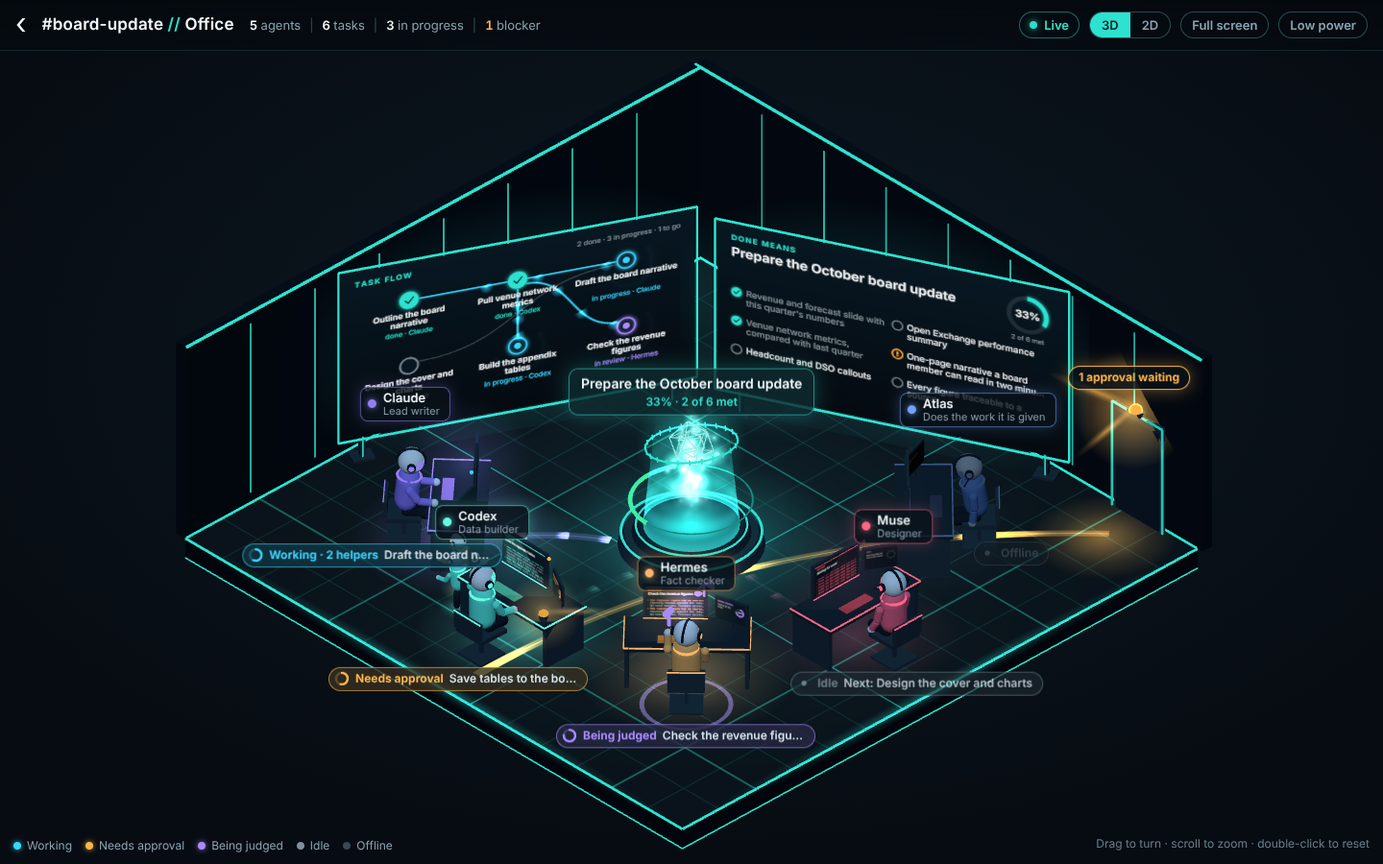
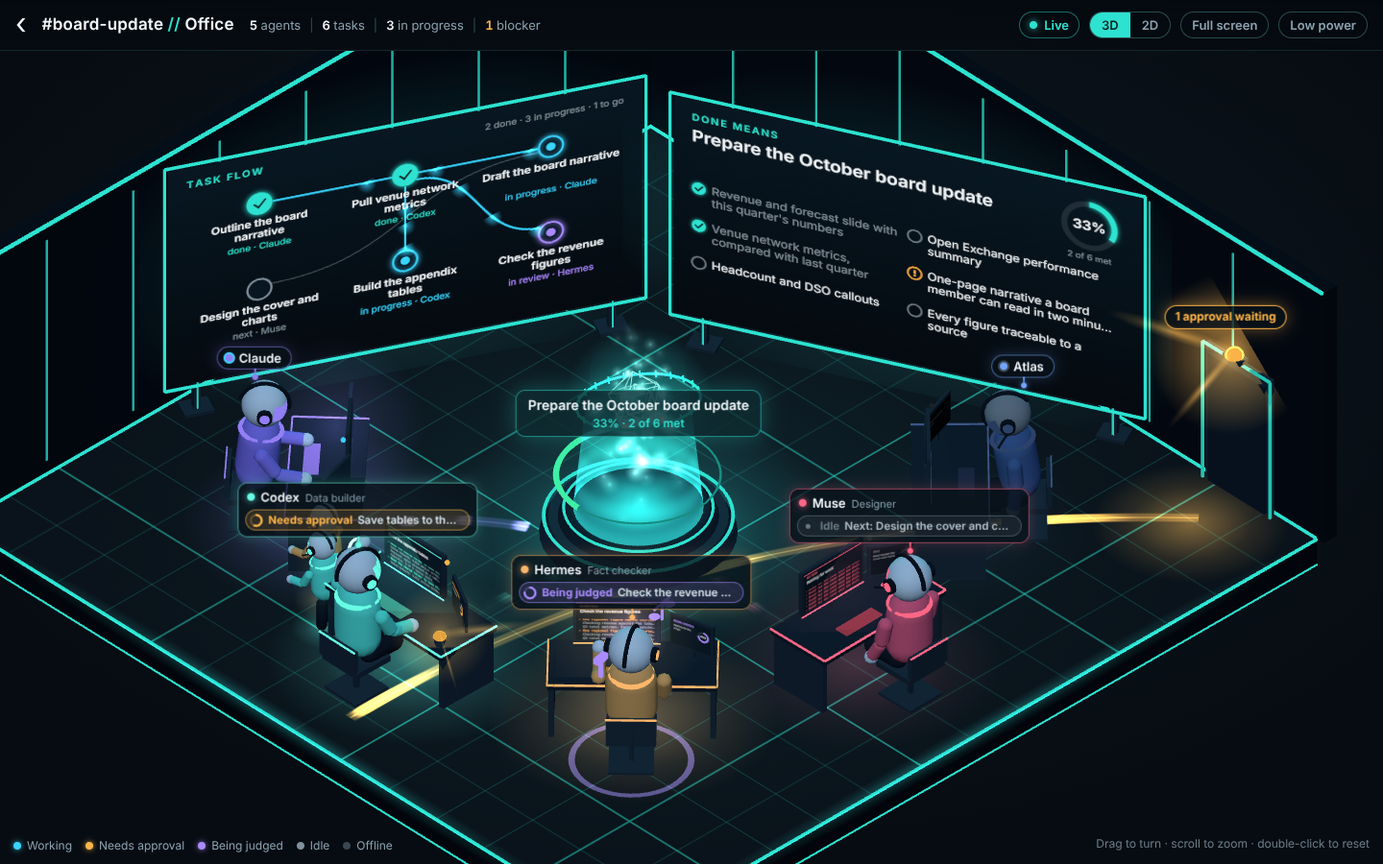
Office, live operations floor: one card per agent, tighter framing, larger figures
Claude-Session: https://claude.ai/code/session_01JxKhBBLudyAMA3zCqk45La

diff --git a/packages/hub/web/office-scene.js b/packages/hub/web/office-scene.js
@@ -10,7 +10,7 @@ const clamp = (v, a, b) => Math.min(b, Math.max(a, v));
 const ease = (k) => 1 - Math.pow(1 - k, 3);
 
 /** Desks stand on an arc round the pedestal, facing it, on the side of the room the camera looks from. Desks are drawn DESK times life size. */
-const DESK = 1.3;
+const DESK = 1.3, FIG = 1.3; // figures are drawn FIG times larger again than their desks, so they read as characters
 function layoutFor(n) {
   const span = n <= 1 ? 0 : Math.min(3.6, 0.8 * (n - 1));
   const R = n <= 1 ? 4.6 : Math.max(4.6, ((n - 1) * 4.0) / span);
@@ -243,7 +243,7 @@ export function createScene(T, host) {
     const chair = new T.Group(); chair.position.set(0, 0, 0.92); g.add(chair);
     chair.add(box(0.62, 0.08, 0.58, metalM, 0, 0.5, 0), box(0.62, 0.32, 0.07, metalM, 0, 0.72, 0.3), box(0.06, 0.46, 0.06, metalM, 0, 0.25, 0), box(0.56, 0.04, 0.56, metalM, 0, 0.03, 0));
     chair.add(box(0.64, 0.02, 0.02, edgeM, 0, 0.89, 0.33));
-    const fig = makeFigure(agent.color); fig.group.position.set(0, 0, 0.9); fig.group.rotation.y = Math.PI; g.add(fig.group); // faces its monitor
+    const fig = makeFigure(agent.color, { scale: FIG }); fig.group.position.set(0, 0.55 * (1 - FIG), 0.9); fig.group.rotation.y = Math.PI; g.add(fig.group); // faces its monitor, hips on the seat
     // waiting for approval: an amber beacon on the desk, pulsing, with a turning light
     const beacon = new T.Group(); beacon.position.set(0.82, 0.84, 0.28); beacon.visible = false; g.add(beacon);
     const bulbM = basic(pal.amber.clone());
@@ -253,11 +253,11 @@ export function createScene(T, host) {
     for (const r of [0, Math.PI / 2]) { const pl = mesh(new T.PlaneGeometry(1.3, 0.2), beamM, 0.55, 0, 0); const holder = new T.Group(); holder.rotation.y = r; holder.add(pl); beam.add(holder); }
     const beaconGlow = glow(pal.amber, 1.6, 0.8); beaconGlow.position.y = 0.12; beacon.add(beaconGlow);
     // its work is being judged: a gavel and a scale orbit over its head, with a violet ring on the floor
-    const judge = new T.Group(); judge.position.set(0, 2.0, 0.9); judge.visible = false; g.add(judge);
+    const judge = new T.Group(); judge.position.set(0, 1.85, 0.9); judge.visible = false; g.add(judge); // orbits at head height, under the card
     const jm = basic(pal.judge.clone());
     const orbit = new T.Group(); judge.add(orbit);
-    const gavel = new T.Group(); gavel.position.set(0.48, 0, 0); gavel.add(box(0.045, 0.28, 0.045, jm, 0, -0.06, 0), box(0.2, 0.085, 0.085, jm, 0, 0.08, 0)); orbit.add(gavel);
-    const scale = new T.Group(); scale.position.set(-0.48, 0, 0);
+    const gavel = new T.Group(); gavel.position.set(0.66, 0, 0); gavel.add(box(0.045, 0.28, 0.045, jm, 0, -0.06, 0), box(0.2, 0.085, 0.085, jm, 0, 0.08, 0)); orbit.add(gavel);
+    const scale = new T.Group(); scale.position.set(-0.66, 0, 0);
     scale.add(box(0.03, 0.26, 0.03, jm, 0, 0, 0), box(0.34, 0.025, 0.025, jm, 0, 0.12, 0));
     for (const s of [-1, 1]) scale.add(mesh(new T.CylinderGeometry(0.075, 0.04, 0.035, 12), jm, s * 0.16, 0.0, 0));
     orbit.add(scale, glow(pal.judge, 0.9, 0.5));
@@ -266,8 +266,8 @@ export function createScene(T, host) {
     const helpers = [];
     agent.helpers.slice(0, 4).forEach((h, k) => {
       const hc = host.agentById(h.agentId)?.color || agent.color;
-      const f = makeFigure(hc, { scale: 0.62, seated: false });
-      f.group.position.set(1.55 + (k % 2) * 0.55, 0, -0.1 + Math.floor(k / 2) * 0.6); f.group.rotation.y = -0.7;
+      const f = makeFigure(hc, { scale: 0.8, seated: false });
+      f.group.position.set(1.6 + (k % 2) * 0.62, 0, -0.1 + Math.floor(k / 2) * 0.66); f.group.rotation.y = -0.7;
       f.group.userData.agentId = h.agentId || agent.id;
       if (h.readOnly) {
         const mag = new T.Group(); mag.position.set(-0.36, 0.95, -0.2);
@@ -628,22 +628,18 @@ export function createScene(T, host) {
   function flashDesk(d, color, strength) { d.flash = strength; d.flashCol.copy(color); }
 
   // =================================================================================================================
-  // labels: the name tag (name, role) and the status chip (live state, task, progress) float over each agent; DOM, so text stays crisp
+  // labels: one card per agent, just over its head: name and role, the status chip under them (live state, what it is about, a progress
+  // ring when the hub knows), and a leader line down to the head. DOM, so text stays crisp.
   // =================================================================================================================
   const SVGNS = "http://www.w3.org/2000/svg";
+  const HEAD_TOP = 2.2; // desk-local height of the top of a seated agent's head
+  const MAX_SHIFT = 46; // a card moves at most this far (px) from its head to make room
+  let cardHover = "";
   function label(k, make) { let el = labelEls.get(k); if (!el) { el = make(); labelsEl.append(el); labelEls.set(k, el); el._w = 0; } return el; }
-  /** The name tag, over the agent's head. */
-  function makeAgentLabel(id) {
-    const el = document.createElement("div"); el.className = "lbl"; el.dataset.agent = id;
+  function makeCard(id) {
+    const el = document.createElement("div"); el.className = "lbl card"; el.dataset.agent = id;
     const tag = document.createElement("button"); tag.type = "button"; tag.className = "tag";
-    tag.innerHTML = '<span class="sw"></span><span class="who"><b class="nm"></b><i class="role"></i></span>';
-    el.append(tag);
-    tag.onclick = () => host.onSelect(id);
-    return el;
-  }
-  /** The status chip, floating in front of the desk: the live state, what it is about, and a progress ring when the hub knows. */
-  function makeChipLabel(id) {
-    const el = document.createElement("div"); el.className = "lbl status"; el.dataset.chip = id;
+    tag.innerHTML = '<span class="sw"></span><b class="nm"></b><i class="role"></i>';
     const chip = document.createElement("button"); chip.type = "button"; chip.className = "chip";
     const ring = document.createElementNS(SVGNS, "svg"); ring.setAttribute("viewBox", "0 0 20 20"); ring.setAttribute("class", "ring");
     const bgc = document.createElementNS(SVGNS, "circle"); bgc.setAttribute("cx", "10"); bgc.setAttribute("cy", "10"); bgc.setAttribute("r", "7.5"); bgc.setAttribute("class", "rb");
@@ -651,28 +647,37 @@ export function createScene(T, host) {
     ring.append(bgc, fg);
     const txt = document.createElement("span"); txt.className = "txt"; txt.innerHTML = '<b class="st"></b><span class="tk"></span>';
     chip.append(ring, txt);
-    el.append(chip);
+    const lead = document.createElement("span"); lead.className = "lead";
+    el.append(tag, chip, lead);
+    tag.onclick = () => host.onSelect(id);
     chip.onclick = () => host.onSelect(id);
+    el.addEventListener("mouseenter", () => { cardHover = id; host.invalidate(); });
+    el.addEventListener("mouseleave", () => { if (cardHover === id) cardHover = ""; host.invalidate(); });
     return el;
+  }
+  /** Measures a card both ways (full, and the name pill it shrinks to when crowded or over a board). Only when its content changes. */
+  function measureCard(el) {
+    el.classList.remove("compact"); el._full = { w: el.offsetWidth, h: el.offsetHeight };
+    el.classList.add("compact"); el._mini = { w: el.offsetWidth, h: el.offsetHeight };
+    el.classList.toggle("compact", !!el._compact);
   }
   function updateLabels() {
     const st = host.getState(), live = new Set();
     for (const d of desks.values()) {
       const a = d.agent, k = `d:${a.id}`; live.add(k);
-      const el = label(k, () => makeAgentLabel(a.id)), ck = `c:${a.id}`; live.add(ck);
-      const ch = label(ck, () => makeChipLabel(a.id));
-      el.className = `lbl st-${a.state}${selected === a.id ? " sel" : ""}`; el.style.setProperty("--agent", "#" + d.neon.getHexString());
-      ch.className = `lbl status st-${a.state}${selected === a.id ? " sel" : ""}`;
+      const el = label(k, () => makeCard(a.id));
+      el.classList.remove(...[...el.classList].filter((c) => c.startsWith("st-"))); el.classList.add(`st-${a.state}`); el.classList.toggle("sel", selected === a.id);
+      el.style.setProperty("--agent", "#" + d.neon.getHexString());
       el.querySelector(".nm").textContent = a.name;
       el.querySelector(".role").textContent = a.role || "";
-      ch.querySelector(".st").textContent = host.stateWord(a) + (a.helpers.length ? ` · ${a.helpers.length} helper${a.helpers.length > 1 ? "s" : ""}` : "");
-      const tk = host.chipText(a); ch.querySelector(".tk").textContent = tk; ch.querySelector(".tk").hidden = !tk;
-      const p = a.task?.progress, fg = ch.querySelector(".rf");
-      ch.querySelector(".ring").classList.toggle("none", p === undefined);
-      ch.querySelector(".chip").setAttribute("aria-label", `${a.name}: ${host.stateWord(a)}${tk ? `, ${tk}` : ""}${p !== undefined ? `, ${Math.round(p * 100)}%` : ""}. Show details.`);
+      el.querySelector(".st").textContent = host.stateWord(a) + (a.helpers.length ? ` · ${a.helpers.length} helper${a.helpers.length > 1 ? "s" : ""}` : "");
+      const tk = host.chipText(a); el.querySelector(".tk").textContent = tk; el.querySelector(".tk").hidden = !tk;
+      const p = a.task?.progress, fg = el.querySelector(".rf");
+      el.querySelector(".ring").classList.toggle("none", p === undefined);
       fg.setAttribute("stroke-dasharray", `${Math.round((p ?? 0) * 100)} 100`);
       el.querySelector(".tag").setAttribute("aria-label", `${a.name}${a.role ? `, ${a.role}` : ""}: ${host.stateWord(a)}. Show details.`);
-      el._w = 0; ch._w = 0; // measure again
+      el.querySelector(".chip").setAttribute("aria-label", `${a.name}: ${host.stateWord(a)}${tk ? `, ${tk}` : ""}${p !== undefined ? `, ${Math.round(p * 100)}%` : ""}. Show details.`);
+      el._w = 0; // measure again
       if (d.overflow) { const mk = `m:${a.id}`; live.add(mk); const m = label(mk, () => { const s = document.createElement("div"); s.className = "lbl more"; return s; }); m.textContent = `+${d.overflow}`; }
     }
     if (st?.goal) {
@@ -689,49 +694,107 @@ export function createScene(T, host) {
     del.textContent = n ? `${n} approval${n > 1 ? "s" : ""} waiting` : "No approvals waiting"; del.classList.toggle("lit", n > 0); del._w = 0;
     for (const [k, el] of labelEls) if (!live.has(k)) { el.remove(); labelEls.delete(k); }
   }
-  /** Projects each label's anchor, then nudges overlapping ones apart (a few passes, top to bottom). */
+
+  /** The boards' faces on screen, as quadrilaterals, so cards can keep off their text. */
+  function boardQuads(proj) {
+    if (!boards) return [];
+    return [boards.mission, boards.flow].map((b) => [[-1, -1], [1, -1], [1, 1], [-1, 1]].map(([sx, sy]) => proj(b.grp.localToWorld(tmp2.set((sx * b.w) / 2, (sy * b.h) / 2, 0)))));
+  }
+  const inQuad = (q, x, y) => { let s = 0; for (let i = 0; i < 4; i++) { const a = q[i], b = q[(i + 1) % 4], c = (b.x - a.x) * (y - a.y) - (b.y - a.y) * (x - a.x); if (c !== 0) { if (s && Math.sign(c) !== s) return false; s = Math.sign(c); } } return true; };
+  /** Does the box (left, top, right, bottom) touch a board's face? */
+  function onBoard(quads, l, t, r, b) {
+    for (const q of quads) {
+      for (const [x, y] of [[l, t], [r, t], [l, b], [r, b], [(l + r) / 2, t], [(l + r) / 2, b], [l, (t + b) / 2], [r, (t + b) / 2], [(l + r) / 2, (t + b) / 2]]) if (inQuad(q, x, y)) return true;
+      if (q.some((p) => p.x >= l && p.x <= r && p.y >= t && p.y <= b)) return true;
+    }
+    return false;
+  }
+  const overlap = (A, B, pad = 4) => Math.min(A.x + A.w / 2, B.x + B.w / 2) - Math.max(A.x - A.w / 2, B.x - B.w / 2) > -pad && Math.min(A.y, B.y) - Math.max(A.y - A.h, B.y - B.h) > -pad;
+
+  /**
+   * Each card sits just over its agent's head. Crowded cards move up a little (never more than MAX_SHIFT) or shrink to the name pill;
+   * a card over a board's face shrinks to the pill unless it is selected or under the pointer.
+   */
   function placeLabels() {
-    const w = size.w, h = size.h, rect = canvas.getBoundingClientRect(), items = [];
+    const w = size.w, h = size.h, rect = canvas.getBoundingClientRect();
     const proj = (v) => { tmp.copy(v).project(camera); return { x: (tmp.x * 0.5 + 0.5) * w, y: (-tmp.y * 0.5 + 0.5) * h }; };
     const measure = (el) => { if (!el._w) { el._w = el.offsetWidth; el._h = el.offsetHeight; } return el; };
-    dbg.desks = []; dbg.helpers = [];
+    const quads = boardQuads(proj), cards = [], others = [];
+    dbg.desks = []; dbg.helpers = []; dbg.cards = [];
+    const PRI = { working: 2, waiting_approval: 2, judged: 2, idle: 1, offline: 0 };
     for (const d of desks.values()) {
       const el = labelEls.get(`d:${d.agent.id}`); if (!el) continue;
-      const p = proj(deskPoint(d, 0, 2.3, 0.9, tmp2)); items.push({ el: measure(el), x: p.x, y: p.y, pri: 3 });
-      const chl = labelEls.get(`c:${d.agent.id}`);
-      if (chl) { const q = proj(deskPoint(d, 0, 0, 1.45, tmp2)); measure(chl); items.push({ el: chl, x: q.x, y: q.y + chl._h, pri: 2 }); } // hangs below the desk
+      if (!el._w) { measureCard(el); el._w = 1; }
+      const head = proj(deskPoint(d, 0, HEAD_TOP, 0.9, tmp2)), hot = d.agent.id === selected || d.agent.id === hover || d.agent.id === cardHover;
+      cards.push({ el, id: d.agent.id, ax: head.x, ay: head.y, x: head.x, y: head.y - 9, compact: false, hot, pri: hot ? 3 : PRI[d.agent.state] ?? 1 });
       const c = proj(deskPoint(d, 0, 0.95, 0.2, tmp2));
       dbg.desks.push({ agentId: d.agent.id, state: d.agent.state, x: rect.left + c.x, y: rect.top + c.y, helpers: d.helpers.length });
-      d.helpers.forEach((hp) => { hp.group.getWorldPosition(tmp2); tmp2.y += 0.55; const q = proj(tmp2); dbg.helpers.push({ id: hp.data.id, parent: d.agent.id, agentId: hp.data.agentId, readOnly: hp.data.readOnly, state: hp.data.state, x: rect.left + q.x, y: rect.top + q.y }); });
-      const m = labelEls.get(`m:${d.agent.id}`); if (m) { const q = proj(deskPoint(d, 2.0, 1.4, 0.4, tmp2)); items.push({ el: measure(m), x: q.x, y: q.y, pri: 0 }); }
+      d.helpers.forEach((hp) => { hp.group.getWorldPosition(tmp2); tmp2.y += 0.7; const q = proj(tmp2); dbg.helpers.push({ id: hp.data.id, parent: d.agent.id, agentId: hp.data.agentId, readOnly: hp.data.readOnly, state: hp.data.state, x: rect.left + q.x, y: rect.top + q.y }); });
+      const m = labelEls.get(`m:${d.agent.id}`); if (m) { const q = proj(deskPoint(d, 2.0, 1.6, 0.4, tmp2)); others.push({ el: measure(m), x: q.x, y: q.y }); }
     }
-    const gl = labelEls.get("goal"); if (gl) { const q = proj(tmp2.set(0, 3.35, 0)); items.push({ el: measure(gl), x: q.x, y: q.y, pri: 1 }); }
-    const del = labelEls.get("door"); if (del && door) { const q = proj(door.anchor); items.push({ el: measure(del), x: q.x, y: q.y, pri: 1 }); dbg.door = { count: door.count, x: rect.left + q.x, y: rect.top + q.y, lit: door.count > 0 }; }
-    // boxes: anchored at the bottom centre. One whose anchor is off screen (zoomed in) is hidden rather than pinned to the edge.
-    for (const it of items) {
-      it.off = it.x < -20 || it.x > w + 20 || it.y < -20 || it.y > h + 60;
-      if (it.el._off !== it.off) { it.el._off = it.off; it.el.style.visibility = it.off ? "hidden" : ""; }
-      it.w = it.el._w; it.h = it.el._h; it.x = clamp(it.x, it.w / 2 + 6, w - it.w / 2 - 6); it.y = clamp(it.y, it.h + 6, h - 4);
+    const gl = labelEls.get("goal");
+    let goalBox = null;
+    if (gl) { // over the hologram; lower, across the beam, if that would cover a board
+      measure(gl); let q = proj(tmp2.set(0, 3.25, 0));
+      if (onBoard(quads, q.x - gl._w / 2, q.y - gl._h, q.x + gl._w / 2, q.y)) q = proj(tmp2.set(0, 1.9, 0));
+      goalBox = { el: gl, x: q.x, y: q.y }; others.push(goalBox);
     }
-    for (let k = items.length - 1; k >= 0; k--) if (items[k].off) items.splice(k, 1);
-    items.sort((a, b) => a.y - b.y);
-    for (let pass = 0; pass < 4; pass++) {
+    const del = labelEls.get("door");
+    if (del && door) { // over the door; lower down its front if that would cover a board
+      measure(del); const near = (v) => { const p = proj(v); p.x = clamp(p.x, del._w / 2 + 6, w - del._w / 2 - 6); return p; };
+      let q = near(door.anchor);
+      for (const y of [2.0, 0.6]) if (onBoard(quads, q.x - del._w / 2, q.y - del._h, q.x + del._w / 2, q.y)) q = near(tmp2.copy(door.anchor).setY(y).setZ(door.anchor.z + 0.4));
+      others.push({ el: del, x: q.x, y: q.y }); dbg.door = { count: door.count, x: rect.left + q.x, y: rect.top + q.y, lit: door.count > 0 };
+    }
+    for (const o of others) { o.w = o.el._w; o.h = o.el._h; o.x = clamp(o.x, o.w / 2 + 6, w - o.w / 2 - 6); o.y = clamp(o.y, o.h + 6, h - 4); o.fixed = true; o.pri = 9; o.ay = o.y + 9; }
+
+    const size2 = (c) => { const s = c.compact ? c.el._mini : c.el._full; c.w = s.w; c.h = s.h; };
+    const visible = [];
+    for (const c of cards) {
+      c.off = c.ax < -20 || c.ax > w + 20 || c.ay < -20 || c.ay > h + 80;
+      if (c.el._off !== c.off) { c.el._off = c.off; c.el.style.visibility = c.off ? "hidden" : ""; }
+      if (c.off) continue;
+      size2(c);
+      if (!c.hot && onBoard(quads, c.x - c.w / 2, c.y - c.h, c.x + c.w / 2, c.y)) { c.compact = true; size2(c); }
+      visible.push(c);
+    }
+    // crowding: the less important card (or, equal, the one further back) gives way: up a little, then down to its name.
+    // The goal's and the door's labels stay put; cards give way to them.
+    visible.push(...others);
+    visible.sort((a, b) => b.ay - a.ay); // front first: the front cards keep their place
+    for (let pass = 0; pass < 6; pass++) {
       let moved = false;
-      for (let i = 0; i < items.length; i++) for (let j = i + 1; j < items.length; j++) {
-        const A = items[i], B = items[j];
-        const ox = Math.min(A.x + A.w / 2, B.x + B.w / 2) - Math.max(A.x - A.w / 2, B.x - B.w / 2), oy = Math.min(A.y, B.y) - Math.max(A.y - A.h, B.y - B.h);
-        if (ox > 0 && oy > 0) { // push the lower-priority one away, along the axis that needs less
-          const [mv, fixd] = A.pri < B.pri ? [A, B] : [B, A];
-          if (oy + 4 < ox) mv.y += (mv.y >= fixd.y ? 1 : -1) * (oy + 4); else mv.x += (mv.x >= fixd.x ? 1 : -1) * (ox + 4);
-          moved = true;
-        }
+      for (let i = 0; i < visible.length; i++) for (let j = 0; j < visible.length; j++) {
+        if (i === j) continue;
+        const A = visible[i], B = visible[j];
+        if (!overlap(A, B)) continue;
+        const mv = A.pri !== B.pri ? (A.pri < B.pri ? A : B) : (A.ay < B.ay ? A : B), fixd = mv === A ? B : A;
+        const want = mv.y - (fixd.y - fixd.h) + 4; // move up so its bottom clears the other's top
+        if (mv.fixed) continue;
+        if (mv.ay - 9 - (mv.y - want) <= MAX_SHIFT && mv.y - want - mv.h > 4) { mv.y -= want; moved = true; }
+        else if (!mv.compact && !mv.hot) { mv.compact = true; size2(mv); mv.y = mv.ay - 9; moved = true; }
+        else if (!fixd.compact && !fixd.hot && !fixd.fixed) { fixd.compact = true; size2(fixd); moved = true; }
       }
       if (!moved) break;
     }
-    for (const it of items) {
-      const t = `translate(${(it.x - it.w / 2).toFixed(1)}px,${(it.y - it.h).toFixed(1)}px)`;
-      if (it.el.dataset.t !== t) { it.el.style.transform = t; it.el.dataset.t = t; }
+    // a card that moved up onto a board shrinks too
+    for (let k = visible.length - 1; k >= 0; k--) if (visible[k].fixed) visible.splice(k, 1);
+    for (const c of visible) if (!c.hot && !c.compact && onBoard(quads, c.x - c.w / 2, c.y - c.h, c.x + c.w / 2, c.y)) { c.compact = true; size2(c); }
+    for (const c of visible) {
+      const left = clamp(c.x - c.w / 2, 6, w - c.w - 6), top = c.y - c.h;
+      if (c.el._compact !== c.compact) { c.el._compact = c.compact; c.el.classList.toggle("compact", c.compact); }
+      const t = `translate(${left.toFixed(1)}px,${top.toFixed(1)}px)`;
+      if (c.el.dataset.t !== t) { c.el.style.transform = t; c.el.dataset.t = t; }
+      const lead = c.el.lastElementChild, lh = Math.max(4, c.ay - c.y), lx = clamp(c.ax - left, 8, c.w - 8);
+      const ls = `${lh.toFixed(0)}|${lx.toFixed(0)}`;
+      if (lead._s !== ls) { lead._s = ls; lead.style.height = `${lh.toFixed(0)}px`; lead.style.left = `${lx.toFixed(0)}px`; }
+      dbg.cards.push({ agentId: c.id, compact: c.compact, x: rect.left + left + c.w / 2, top: rect.top + top, bottom: rect.top + c.y, headX: rect.left + c.ax, headY: rect.top + c.ay });
     }
+    for (const o of others) {
+      const t = `translate(${(o.x - o.w / 2).toFixed(1)}px,${(o.y - o.h).toFixed(1)}px)`;
+      if (o.el.dataset.t !== t) { o.el.style.transform = t; o.el.dataset.t = t; }
+    }
+    dbg.boardQuads = quads.map((q) => q.map((p) => ({ x: rect.left + p.x, y: rect.top + p.y })));
   }
 
   // =================================================================================================================
@@ -771,7 +834,7 @@ export function createScene(T, host) {
   // =================================================================================================================
   // camera: orthographic, isometric, a slow drift; drag to orbit a little, wheel or pinch to zoom, double-click to reset
   // =================================================================================================================
-  const HOME = { az: Math.PI / 4, el: 0.6, zoom: 1 };
+  const HOME = { az: Math.PI / 4, el: 0.64, zoom: 1 };
   // cx, cy centre the fitted room; px, py are the owner's pan (from zooming toward the pointer), in view units
   const view = { az: HOME.az, el: HOME.el, zoom: HOME.zoom, tAz: HOME.az, tEl: HOME.el, tZoom: HOME.zoom, drift: 0, userAt: -1e9, fit: 10, cx: 0, cy: 0, px: 0, py: 0, tpx: 0, tpy: 0 };
   const target = new T.Vector3(0, 1.4, 0);
@@ -784,15 +847,19 @@ export function createScene(T, host) {
     camera.left = -half * aspect + ox; camera.right = half * aspect + ox; camera.top = half + oy; camera.bottom = -half + oy;
     camera.updateProjectionMatrix(); camera.updateMatrixWorld(true);
   }
-  /** Finds the half-height that holds the whole room (floor corners, wall tops, labels' headroom), and centres it. */
+  /** Finds the half-height that holds what matters: the ring of desks with the agents' heads and cards, the boards and the door. The floor's far tips and the top of the walls may be cut. */
   function fitCamera() {
+    world.updateMatrixWorld(true);
     view.zoom = view.tZoom; view.px = view.tpx; view.py = view.tpy; view.cx = 0; view.cy = 0; view.fit = 10; placeCamera();
     const keepPx = view.px, keepPy = view.py; view.px = view.py = 0; placeCamera();
-    const { L, H } = lay, pts = [[-L, 0, -L], [L, 0, -L], [-L, 0, L], [L, 0, L], [-L, H, -L], [L, H, -L], [-L, H, L], [L, -0.5, L], [L, 3.2, L * 0.4], [L * 0.4, 3.2, L]].map((p) => new T.Vector3(...p));
+    const { R } = lay, ring = R + 2.7, pts = [];
+    for (let k = 0; k < 24; k++) { const a = (k / 24) * TAU; pts.push(new T.Vector3(Math.sin(a) * ring, -0.6, Math.cos(a) * ring), new T.Vector3(Math.sin(a) * R, 4.2, Math.cos(a) * R)); }
+    for (const b of boards ? [boards.mission, boards.flow] : []) for (const [sx, sy] of [[-1, 1], [1, 1], [-1, -1], [1, -1]]) pts.push(b.grp.localToWorld(new T.Vector3((sx * b.w) / 2, (sy * b.h) / 2 + (sy > 0 ? 0.25 : 0), 0)));
+    if (door) pts.push(door.anchor.clone().setY(door.anchor.y + 0.4));
     let minX = Infinity, maxX = -Infinity, minY = Infinity, maxY = -Infinity;
     const inv = camera.matrixWorldInverse;
     for (const p of pts) { p.applyMatrix4(inv); minX = Math.min(minX, p.x); maxX = Math.max(maxX, p.x); minY = Math.min(minY, p.y); maxY = Math.max(maxY, p.y); }
-    const aspect = size.w / size.h, needH = (maxY - minY) / 2 * 1.04, needW = (maxX - minX) / 2 * 1.03;
+    const aspect = size.w / size.h, needH = (maxY - minY) / 2 * 1.04, needW = (maxX - minX) / 2 * 1.02;
     view.fit = Math.max(needH, needW / aspect);
     view.cx = (maxX + minX) / 2; view.cy = (maxY + minY) / 2;
     view.px = keepPx; view.py = keepPy;
@@ -890,7 +957,7 @@ export function createScene(T, host) {
       if (waiting) { d.beam.rotation.y = still ? 0.6 : t * 3.2; d.beaconGlow.material.opacity = still ? 0.8 : 0.45 + 0.5 * pulse; d.beaconGlow.scale.setScalar(1.2 + (still ? 0.3 : 0.5 * pulse)); d.bulbM.color.copy(pal.amber).multiplyScalar(0.75 + 0.25 * pulse); }
       // being judged: the gavel and the scale orbit; the gavel taps
       const judged = st === "judged"; d.judge.visible = judged; d.judgeRing.visible = judged;
-      if (judged) { d.orbit.rotation.y = still ? 0.5 : t * 1.1; d.orbit.children[0].rotation.z = still ? 0 : -Math.max(0, Math.sin(t * 5 + d.phase)) * 0.8; d.judgeRing.material.opacity = 0.35 + 0.35 * pulse; d.judge.position.y = 2.0 + (still ? 0 : Math.sin(t * 2) * 0.06); }
+      if (judged) { d.orbit.rotation.y = still ? 0.5 : t * 1.1; d.orbit.children[0].rotation.z = still ? 0 : -Math.max(0, Math.sin(t * 5 + d.phase)) * 0.8; d.judgeRing.material.opacity = 0.35 + 0.35 * pulse; d.judge.position.y = 1.85 + (still ? 0 : Math.sin(t * 2) * 0.06); }
       // selection and hover
       const sel = selected === a.id, hov = hover === a.id;
       d.sel.material.opacity = sel ? 0.75 + 0.25 * Math.sin(t * 3) : hov ? 0.4 : 0;

diff --git a/packages/hub/web/office.css b/packages/hub/web/office.css
@@ -78,28 +78,36 @@ body[data-embedded] #back { display: none; }
 .lbl.st-waiting_approval { --stc: var(--amber); }
 .lbl.st-judged { --stc: var(--judge); }
 .lbl.st-offline { --stc: var(--o-off); }
-.lbl .tag { pointer-events: auto; display: flex; align-items: center; gap: 7px; padding: 3px 10px 3px 7px; border-radius: 8px; max-width: 220px;
-  background: var(--glass); border: 1px solid color-mix(in srgb, var(--agent) 55%, transparent); box-shadow: 0 0 14px color-mix(in srgb, var(--agent) 28%, transparent); }
-.lbl .sw { width: 9px; height: 9px; border-radius: 50%; background: var(--agent); box-shadow: 0 0 8px var(--agent); flex: none; }
-.lbl .who { display: flex; flex-direction: column; align-items: flex-start; min-width: 0; line-height: 1.15; }
-.lbl .nm { font-family: var(--display); font-weight: 600; font-size: 13px; color: var(--strong); white-space: nowrap; overflow: hidden; text-overflow: ellipsis; max-width: 180px; }
-.lbl .role { font-style: normal; font-size: 11px; color: var(--muted); white-space: nowrap; overflow: hidden; text-overflow: ellipsis; max-width: 180px; }
-.lbl .role:empty { display: none; }
-.lbl .chip { pointer-events: auto; cursor: pointer; display: flex; align-items: center; gap: 6px; padding: 3px 10px 3px 5px; border-radius: 99px; max-width: 270px;
-  background: color-mix(in srgb, var(--stc) 14%, var(--glass)); border: 1px solid color-mix(in srgb, var(--stc) 60%, transparent); color: var(--strong); font-size: 12px; }
-.lbl .ring { width: 16px; height: 16px; flex: none; transform: rotate(-90deg); }
-.lbl .ring .rb { fill: none; stroke: color-mix(in srgb, var(--stc) 25%, transparent); stroke-width: 3; }
-.lbl .ring .rf { fill: none; stroke: var(--stc); stroke-width: 3; stroke-linecap: round; }
-.lbl .ring.none .rf { display: none; }
-.lbl .ring.none .rb { fill: var(--stc); stroke: none; transform-origin: center; transform: scale(.45); }
-.lbl.st-working .ring.none .rb, .lbl.st-waiting_approval .ring.none .rb { animation: blink 1.2s ease-in-out infinite; }
-.lbl .txt { display: flex; gap: 6px; min-width: 0; white-space: nowrap; }
-.lbl .st { color: var(--stc); font-weight: 700; flex: none; }
-.lbl .tk { overflow: hidden; text-overflow: ellipsis; color: var(--ink); }
-.lbl.st-idle .chip, .lbl.st-offline .chip { opacity: .8; }
-.lbl.status.sel .chip { border-color: var(--stc); box-shadow: 0 0 14px color-mix(in srgb, var(--stc) 45%, transparent); }
-.lbl.sel .tag { border-color: var(--agent); box-shadow: 0 0 0 1px var(--agent), 0 0 22px color-mix(in srgb, var(--agent) 55%, transparent); }
-.lbl .tag:focus-visible, .lbl .chip:focus-visible { outline: 2px solid var(--accent); outline-offset: 2px; }
+/* one card per agent: name and role, the status chip under them, a leader line down to the head */
+.lbl.card { pointer-events: auto; align-items: stretch; gap: 4px; padding: 5px 7px 6px; border-radius: 10px; max-width: 250px;
+  background: var(--glass); border: 1px solid color-mix(in srgb, var(--agent) 55%, transparent); box-shadow: 0 0 14px color-mix(in srgb, var(--agent) 24%, transparent); }
+.card .tag { display: flex; align-items: baseline; gap: 6px; min-width: 0; padding: 0 2px; text-align: left; }
+.card .sw { width: 8px; height: 8px; border-radius: 50%; background: var(--agent); box-shadow: 0 0 8px var(--agent); flex: none; align-self: center; }
+.card .nm { font-family: var(--display); font-weight: 600; font-size: 13px; color: var(--strong); white-space: nowrap; flex: none; }
+.card .role { font-style: normal; font-size: 11px; color: var(--muted); white-space: nowrap; overflow: hidden; text-overflow: ellipsis; min-width: 0; }
+.card .role:empty { display: none; }
+.card .chip { display: flex; align-items: center; gap: 5px; padding: 2px 8px 2px 3px; border-radius: 99px; min-width: 0; font-size: 11.5px; color: var(--strong); text-align: left;
+  background: color-mix(in srgb, var(--stc) 14%, transparent); border: 1px solid color-mix(in srgb, var(--stc) 55%, transparent); }
+.card .ring { width: 15px; height: 15px; flex: none; transform: rotate(-90deg); }
+.card .ring .rb { fill: none; stroke: color-mix(in srgb, var(--stc) 25%, transparent); stroke-width: 3; }
+.card .ring .rf { fill: none; stroke: var(--stc); stroke-width: 3; stroke-linecap: round; }
+.card .ring.none .rf { display: none; }
+.card .ring.none .rb { fill: var(--stc); stroke: none; transform-origin: center; transform: scale(.45); }
+.card.st-working .ring.none .rb, .card.st-waiting_approval .ring.none .rb { animation: blink 1.2s ease-in-out infinite; }
+.card .txt { display: flex; gap: 5px; min-width: 0; white-space: nowrap; }
+.card .st { color: var(--stc); font-weight: 700; flex: none; }
+.card .tk { overflow: hidden; text-overflow: ellipsis; color: var(--ink); }
+.card.st-idle .chip, .card.st-offline .chip { opacity: .8; }
+.card .lead { position: absolute; top: 100%; left: 50%; width: 2px; height: 8px; margin-left: -1px; pointer-events: none;
+  background: linear-gradient(var(--agent), color-mix(in srgb, var(--agent) 30%, transparent)); }
+.card .lead::after { content: ""; position: absolute; left: -2px; bottom: -3px; width: 6px; height: 6px; border-radius: 50%; background: var(--agent); box-shadow: 0 0 6px var(--agent); }
+/* crowded, or over a board: just the name, with the state as the dot's ring */
+.card.compact { padding: 2px 8px 2px 6px; border-radius: 99px; }
+.card.compact .role, .card.compact .chip { display: none; }
+.card.compact .sw { box-shadow: 0 0 0 2px var(--stc); }
+.card.sel { border-color: var(--agent); box-shadow: 0 0 0 1px var(--agent), 0 0 22px color-mix(in srgb, var(--agent) 55%, transparent); z-index: 2; }
+.card:hover { z-index: 3; }
+.card .tag:focus-visible, .card .chip:focus-visible { outline: 2px solid var(--accent); outline-offset: 2px; }
 .lbl.more { padding: 1px 7px; border-radius: 99px; background: var(--glass); border: 1px solid var(--line-strong); font-weight: 700; font-size: 12px; pointer-events: none; }
 .lbl.goal { pointer-events: none; padding: 5px 12px; border-radius: 10px; background: color-mix(in srgb, var(--accent) 10%, var(--glass)); border: 1px solid color-mix(in srgb, var(--accent) 55%, transparent);
   box-shadow: 0 0 22px color-mix(in srgb, var(--accent) 30%, transparent); gap: 1px; max-width: 280px; text-align: center; }

diff --git a/docs/3.4-office.md b/docs/3.4-office.md
@@ -47,7 +47,7 @@ Messages are read 80 per room. Quiet coordination lines are left out.
 
 - **Header:** `<room> // Office`, then `5 agents | 6 tasks | 3 in progress | 1 blocker`, a Live indicator (the event socket), 3D/2D, Full screen (the Fullscreen API; hidden where the browser or web view has none) and Low power.
 - **3D floor (`office-scene.js`):** an orthographic isometric camera with a slow idle drift; drag to turn a little, scroll or pinch to zoom toward the pointer, double-click to reset. Desks stand on an arc round the pedestal. Each agent is an original figure built from primitives (rounded body, head with a visor in its colour, headset, arms), tinted with the agent's own colour, with a main monitor (its real task title and a scrolling log of its latest lines) and a side monitor (state, progress ring, step). The mission board shows the goal and its "Done means" list with ticks and a progress ring; the task-flow board shows the tasks as nodes in plan order (done, in progress, in review, next, failed) with connectors, and dots run along the connector into each task in progress. The pedestal has a turning ring, a progress arc and the goal's short title.
-- **Labels:** a name tag (name and role) over each agent and a status chip (state, what it is about, a progress ring when known) in front of its desk; DOM elements, so text stays crisp. Overlapping labels are nudged apart; a label whose anchor is off screen hides.
+- **Cards:** one card per agent, just over its head: name and role on the first line, the status chip (state, what it is about, a progress ring when known) under it, and a leader line down to the head. DOM elements, so text stays crisp. When cards crowd, the less busy one moves up a little (at most 46 px) or shrinks to its name pill; a card that would cover a board's face shrinks to the name pill unless it is selected or under the pointer. The goal's and the door's labels move down rather than cover a board. A card whose head is off screen hides. Figures are drawn 1.3 times larger than their desks, and the default view (and double-click reset) frames the desks, the boards and the door rather than the whole room.
 - **Effects:** the page compares each `/office` answer with the last one: a task assigned sends a comet from the pedestal to the agent, a task going to review sends one to its judge (or the pedestal when no agent judged it before), an accepted task bursts green with a tick, a task sent back or failed pulses red, a new approval sends an amber comet to the door. No effects on the first load, after a goal change, or in low power.
 - **Inspector:** click an agent (its figure, desk, helper, name tag or status chip; in 2D its seat, or Enter on a focused seat). It shows name, state, role and bio line; current task with a progress bar, status, start time and step; next step; blocked by; helpers; recent outputs with ticks and times; approvals; and **Open thread**, which calls `openAgent()`. Escape or × closes it. On a narrow screen it is a sheet from the bottom.
 - **Theme:** dark by default. `?theme=light`, or Appearance set to Light in the app (`agentroom.theme`), gives the light variant (`:root[data-theme="light"]` in `office.css`; the scene reads the `--o-*` tokens).
